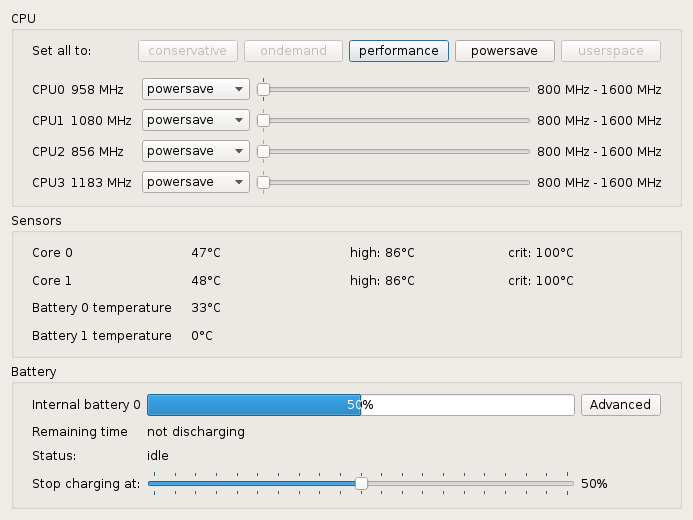
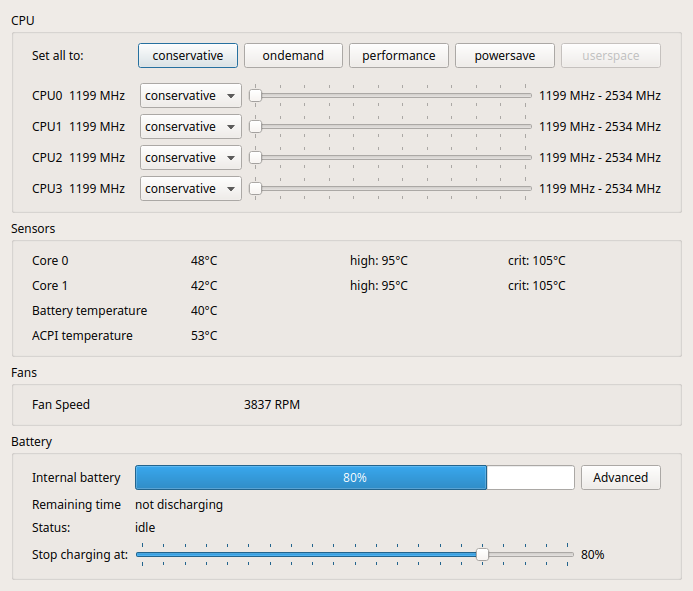
Added support for fanspeeds.

diff --git a/src/thinkgui.cpp b/src/thinkgui.cpp
@@ -10,6 +10,7 @@ ThinkGui::ThinkGui(QWidget *parent, Qt::WindowFlags flags) :
     ui->setupUi(this);
     initCpuWidgets();
     initSensorWidgets();
+    initFanWidgets();
     initBatteryWidgets();
     refresh();
     updateTimer = new QTimer(this);
@@ -48,6 +49,11 @@ ThinkGui::~ThinkGui()
     }
     sensor.clear();
 
+    foreach(FanWidget *f, fan) {
+        delete f;
+    }
+    fan.clear();
+    
     foreach(BatteryWidget *b, bat) {
         delete b;
     }
@@ -75,6 +81,16 @@ void ThinkGui::initSensorWidgets() {
         sWidget->setModel(sModel);
         sensor.append(sWidget);
         ui->sensorsGroupBox->layout()->addWidget(sWidget);
+    }
+}
+
+void ThinkGui::initFanWidgets() {
+    foreach(FanConfig fanCfg, GlobalConfig().fans) {
+        FanWidget *fWidget = new FanWidget();
+        FanModel *fModel = new FanModel(fanCfg);
+        fWidget->setModel(fModel);
+        fan.append(fWidget);
+        ui->fansGroupBox->layout()->addWidget(fWidget);
     }
 }
 
@@ -106,6 +122,10 @@ void ThinkGui::refresh() {
 
     foreach(SensorWidget *sWidget, sensor) {
         sWidget->refresh();
+    }
+
+    foreach(FanWidget *fWidget, fan) {
+        fWidget->refresh();
     }
 
     foreach(BatteryWidget *bWidget, bat) {

diff --git a/src/config.cpp b/src/config.cpp
@@ -46,6 +46,23 @@ void Config::load() {
         this->sensors.append(sensor);
         settings.endGroup();
     }
+    
+    int fans = settings.value("fans", 0).toInt();
+    for(int i = 0; i < fans; ++i) {
+        QString section;
+        QTextStream ts(&section);
+        ts << "fan" << i;
+
+        settings.beginGroup(section);
+        FanConfig fan;
+        fan.name = settings.value("name", section).toString();
+        fan.format = settings.value("format").toString();
+        fan.value = settings.value("value").toString();
+        fan.highFormat = settings.value("high_format").toString();
+        fan.highValue = settings.value("high_value").toString();
+        this->fans.append(fan);
+        settings.endGroup();
+    }
 
     int batteries = settings.value("batteries", 0).toInt();
     for(int i = 0; i < batteries; ++i) {

diff --git a/src/fanmodel.cpp b/src/fanmodel.cpp
@@ -1,0 +1,22 @@
+#include "fanmodel.h"
+#include "fileio.h"
+
+void FanModel::refresh() {
+    curValue = FileIO::read(config.value).toInt() ;
+    curHighValue = FileIO::read(config.highValue).toInt();
+}
+
+QString& FanModel::name() {
+    return config.name;
+}
+
+QString FanModel::value() {
+    QString f = config.format;
+    return f.replace("%val", QString::number(curValue));
+}
+
+QString FanModel::highValue() {
+    QString f = config.highFormat;
+    return f.replace("%val", QString::number(curHighValue))
+            .replace("%deg", QString(QChar(0xB0)));
+}

diff --git a/src/fanwidget.h b/src/fanwidget.h
@@ -1,0 +1,34 @@
+#ifndef FANWIDGET_H
+#define FANWIDGET_H
+
+#include <QWidget>
+#include "fanmodel.h"
+
+namespace Ui {
+class FanWidget;
+}
+
+class FanWidget : public QWidget
+{
+    Q_OBJECT
+    
+public:
+    explicit FanWidget(QWidget *parent = 0);
+    ~FanWidget();
+    
+    void setModel(FanModel * model) {
+        fanModel = model;
+    }
+
+    FanModel & model() {
+        return *fanModel;
+    }
+
+    void refresh();
+
+private:
+    Ui::FanWidget *ui;
+    FanModel *fanModel;
+};
+
+#endif // FANWIDGET_H

diff --git a/src/thinkgui.h b/src/thinkgui.h
@@ -7,6 +7,7 @@
 
 #include "cpuwidget.h"
 #include "sensorwidget.h"
+#include "fanwidget.h"
 #include "batterywidget.h"
 
 namespace Ui {
@@ -35,11 +36,13 @@ private:
     Ui::ThinkGui *ui;
     QVector<CpuWidget*> cpu;
     QVector<SensorWidget*> sensor;
+    QVector<FanWidget*> fan;
     QVector<BatteryWidget*> bat;
     QTimer *updateTimer;
 
     void initCpuWidgets();
     void initSensorWidgets();
+    void initFanWidgets();
     void initBatteryWidgets();
     void setAllGovernors(const QString & governor);
 };

diff --git a/src/fanwidget.cpp b/src/fanwidget.cpp
@@ -1,0 +1,22 @@
+#include "fanwidget.h"
+#include "ui_fanwidget.h"
+
+FanWidget::FanWidget(QWidget *parent) :
+    QWidget(parent),
+    ui(new Ui::FanWidget)
+{
+    ui->setupUi(this);
+}
+
+FanWidget::~FanWidget()
+{
+    delete ui;
+    delete fanModel;
+}
+
+void FanWidget::refresh() {
+    fanModel->refresh();
+    ui->nameLabel->setText(fanModel->name());
+    ui->valueLabel->setText(fanModel->value());
+    ui->highValueLabel->setText(fanModel->highValue());
+}

diff --git a/src/fanmodel.h b/src/fanmodel.h
@@ -1,0 +1,26 @@
+#ifndef FANMODEL_H
+#define FANMODEL_H
+
+#include <QString>
+#include "fanconfig.h"
+
+class FanModel
+{
+    FanConfig config;
+    int curValue;
+    int curHighValue;
+
+public:
+    FanModel(const FanConfig & config) {
+        this->config = config;
+    }
+
+    void refresh();
+
+    QString& name();
+    QString value();
+    QString highValue();
+
+};
+
+#endif // FANMODEL_H

diff --git a/src/config.h b/src/config.h
@@ -8,6 +8,7 @@
 
 #include "cpuconfig.h"
 #include "sensorconfig.h"
+#include "fanconfig.h"
 #include "batteryconfig.h"
 
 class Config
@@ -22,6 +23,7 @@ public:
     int refresh;
     QVector<CpuConfig> cpus;
     QVector<SensorConfig> sensors;
+    QVector<FanConfig> fans;
     QVector<BatteryConfig> bats;
     QHash<QString, QPair<int, int> > governors;
     friend Config& GlobalConfig();

diff --git a/src/fanconfig.h b/src/fanconfig.h
@@ -1,0 +1,13 @@
+#ifndef FANCONFIG_H
+#define FANCONFIG_H
+
+struct FanConfig
+{
+    QString name;
+    QString format;
+    QString value;
+    QString highFormat;
+    QString highValue;
+};
+
+#endif // FANCONFIG_H
